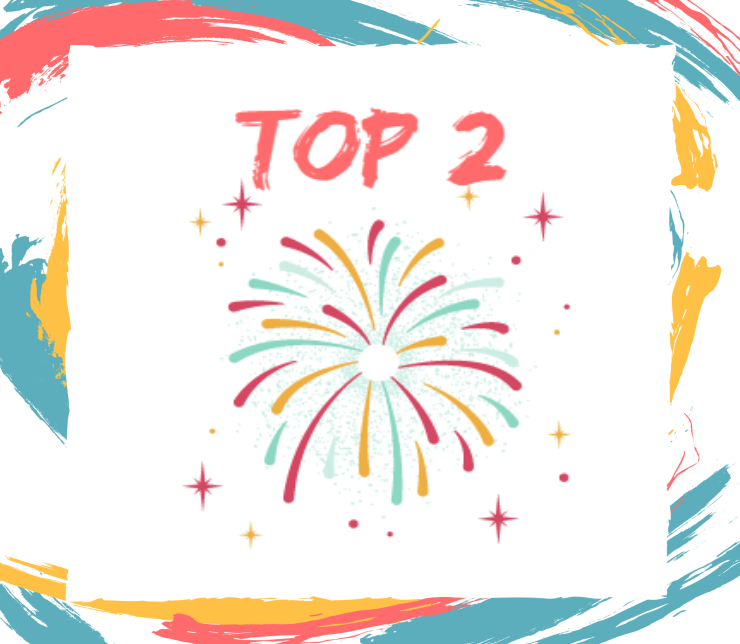
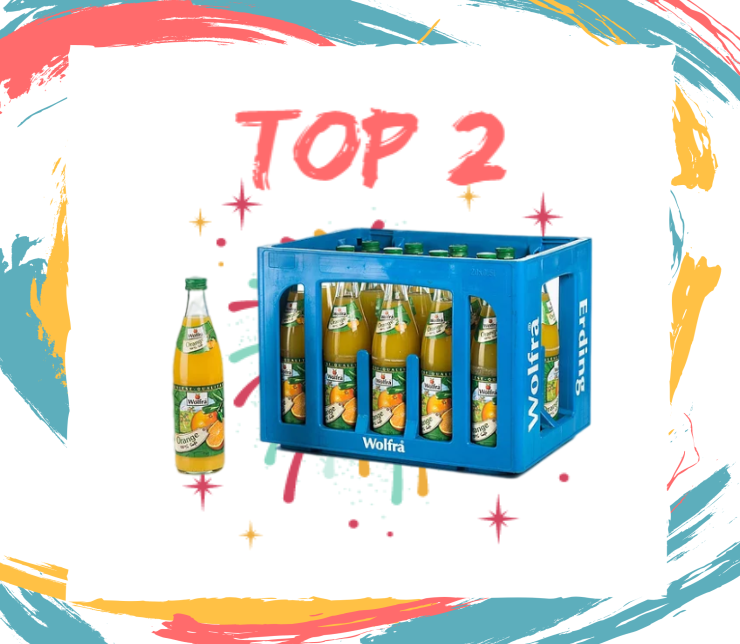
后端及P图完成

Changed region(s): [[0.3419, 0.3416, 0.8081, 0.7453], [0.2176, 0.4037, 0.3108, 0.7453]]

diff --git a/src/main/resources/static/main.html b/src/main/resources/static/main.html
@@ -82,18 +82,31 @@
                     </ul>
                 </div>
                 <div class="fresh_right">
+<!--                    <div class="fre_ban">-->
+<!--                        <div id="imgPlay1" class="imgPlay1">-->
+<!--                            <ul class="imgs" id="actor1">-->
                     <ul>
+<!--                    <ul class="imgs">-->
 <!--                        <li th:each="productVO:${productCategory.productVOList}">-->
 <!--                            <a th:href="'/product/findById/'+ ${productVO.id}">-->
 <!--                                <img th:src="'/images/'+${productVO.rightImg}" height="220"/></a></li>-->
 <!--                        <li th:each="productVO:${productCategory.productVOList}">-->
 <!--                            <a th:href="'/product/findById/'+ ${productVO.id+1}">-->
 <!--                                <img th:src="'/images/'+${productVO.fileName+1}" height="220" style="margin-top: 5px" /></a></li>-->
-
+<!--                        <a th:href="'/product/findById/'+ ${productVO.id}"><img th:src="${productCategory.topImg}" width="211"/></a>-->
                         <li th:each="productVO:${productCategory.productVOList}">
-                            <a th:href="'/product/findById/'+ ${productVO.id}">
-                                <img th:src="'/images/'+${productCategory.rightImg}" height="220"
-                        /></a></li>
+                            <a th:href="'/product/findById/'+ ${productVO.id+1}">
+                                <img th:src="${productCategory.rightImg}" height="220"/>
+                            </a>
+                            <ul th:each="productVO:${productCategory.productVOList}">
+                               <a th:href="'/product/findById/'+ ${productVO.id+2}">
+                                <img th:src="${productCategory.right2Img}" height="220" style="margin-top: 5px"/>
+                            </a>
+
+                            </ul>
+                        </li>
+
+
 <!--                        <li th:each="productVO:${productCategory.productVOList}">-->
 <!--                            <a th:href="'/product/findById/'+ ${productVO.id+6}">-->
 <!--                                <img src="/images/13.png" height="220"-->
@@ -102,7 +115,7 @@
                 </div>
             </div>
         </div>
-
+            </div>
 </div>
 
 <th:block th:include="common.html :: footer"></th:block>

diff --git a/src/main/resources/static/css/style.css b/src/main/resources/static/css/style.css
@@ -1901,10 +1901,19 @@ ul.menu_r li a:hover, ul.menu_r li a.now {
 
 .fresh_right ul li {
     width: 260px;
+    height: 441px;
+    overflow: hidden;
+    border-bottom: 1px solid #eaeaea;
+}
+.fresh_right ul li ul{
+    width: 260px;
     height: 220px;
     overflow: hidden;
     border-bottom: 1px solid #eaeaea;
 }
+
+
+
 
 /*---------------首页（食品饮料）---------------*/
 .food_left {

diff --git a/src/main/java/com/southwind/drinkshop/service/impl/ProductCategoryServiceImpl.java b/src/main/java/com/southwind/drinkshop/service/impl/ProductCategoryServiceImpl.java
@@ -43,7 +43,8 @@ public class ProductCategoryServiceImpl extends ServiceImpl<ProductCategoryMappe
         for (int i = 0; i < levelOneVO.size(); i++) {
             levelOneVO.get(i).setBannerImg("/images/banner"+i+".png");
             levelOneVO.get(i).setTopImg("/images/top"+i+".png");
-            levelOneVO.get(i).setRightImg("/images/right"+i+".png");//
+            levelOneVO.get(i).setRightImg("/images/right"+i+".png");
+            levelOneVO.get(i).setRight2Img("/images/right_"+i+".png");
             wrapper = new QueryWrapper();
             wrapper.eq("categorylevelone_id",levelOneVO.get(i).getId());
             List<Product> productList = productMapper.selectList(wrapper);

diff --git a/src/main/java/com/southwind/drinkshop/vo/ProductCategoryVO.java b/src/main/java/com/southwind/drinkshop/vo/ProductCategoryVO.java
@@ -13,7 +13,7 @@ public class ProductCategoryVO {
     private String topImg;
     private List<ProductVO> productVOList;
     private String rightImg;
-
+    private String right2Img;
      public ProductCategoryVO(Integer id, String name) {
          this.id = id;
          this.name = name;
